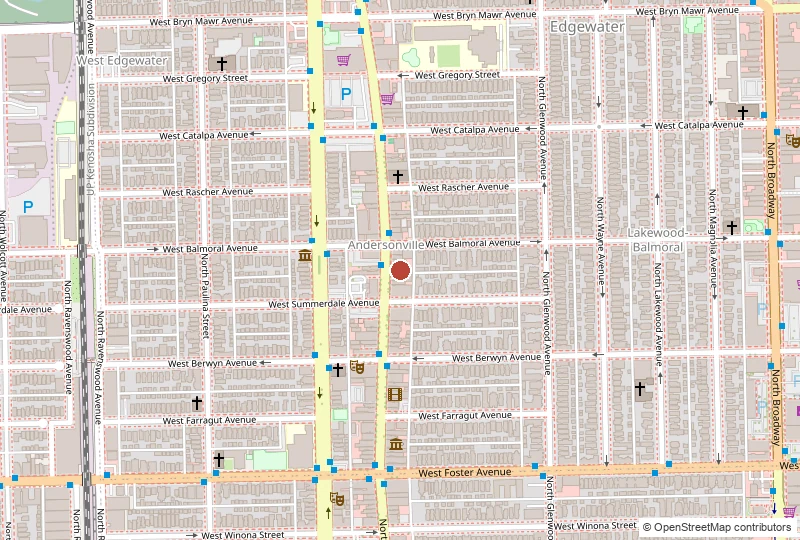
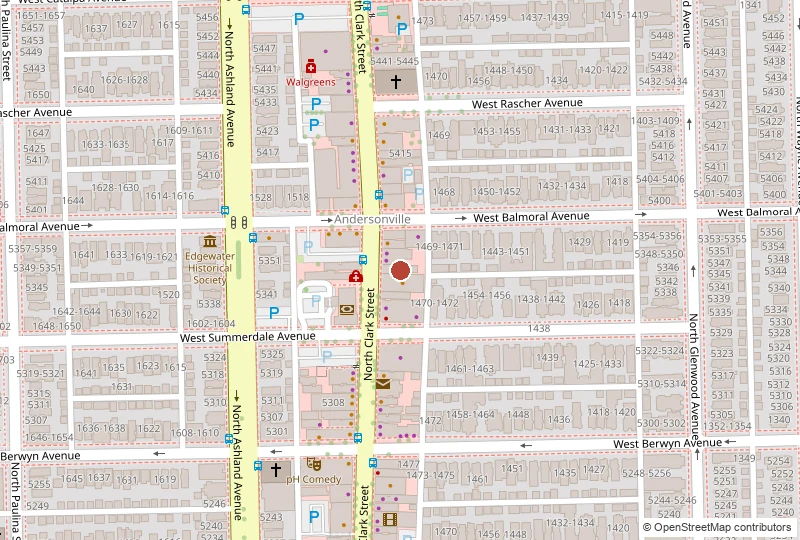
fix(maps): zoom 16→17 — ~3 blocks visible vs. neighborhood-wide
zoom 16 rendered the entire neighborhood (Foster to Bryn Mawr in one
view), which read as orientation map rather than venue locator. Zoom 17
shows ~3-4 city blocks across the 800px width — the venue's block plus
its immediate neighbors. Marker stays prominent, street names still
legible. File sizes drop slightly (closer view = less detail to encode).

diff --git a/scripts/build_business_maps.py b/scripts/build_business_maps.py
@@ -32,7 +32,7 @@ BUSINESSES_YAML = REPO_ROOT / "config" / "businesses.yaml"
 OUT_DIR = REPO_ROOT / "public" / "images" / "maps"
 
 WIDTH, HEIGHT = 800, 540
-ZOOM = 16
+ZOOM = 17
 TILE_PX = 256
 MARKER_RED = (184, 68, 53)        # --riso-red
 MARKER_OUTLINE = (255, 255, 255)
